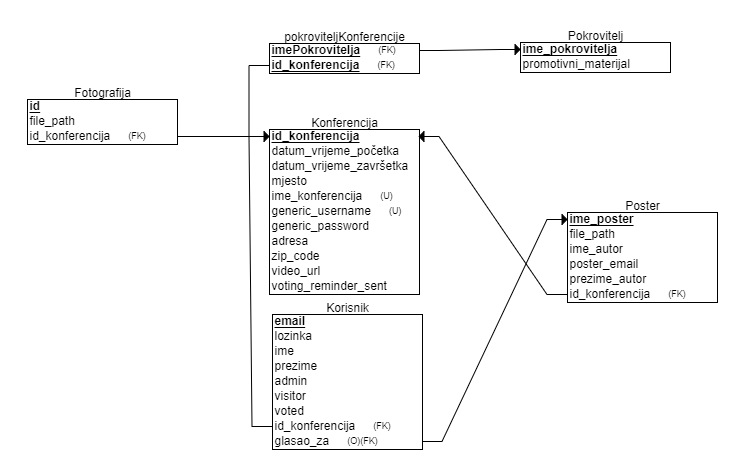
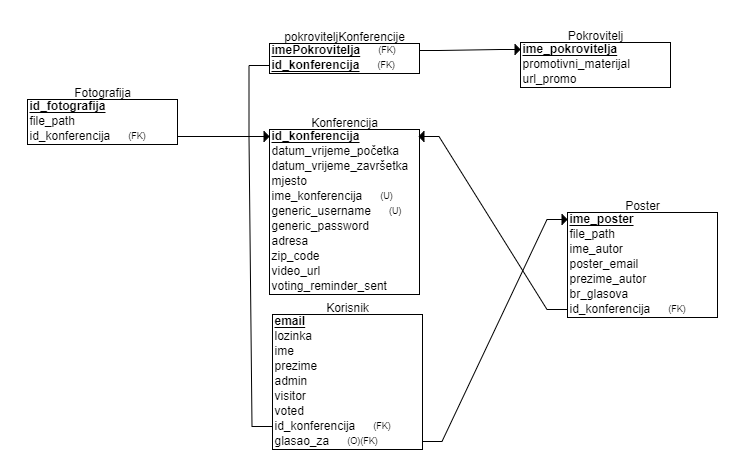
Usklađivanje opisa baze podataka sa stvarnom implementacijom
Generiran je SQL

diff --git a/Dokumentacija/Arhitektura.tex b/Dokumentacija/Arhitektura.tex
@@ -100,7 +100,7 @@ Dijelovi MVC obrazca su:
 	
 	\clearpage
 	
-	\noindent \textbf{Poster } Ovaj entitet sadržava sve važne informacije o radu i/ili izlaganju koje je prikazano odgovarajućim posterom ili prezentacijom. Sadrži atribute: Ime postera, put do datoteke postera, ime i prezime autora, e-mail adresu kojom je autor poslao poster i identifikator konferencije na kojoj se rad izlaže. Ovaj entitet je u vezi \textit{Many-to-One} s entitetom Konferencija preko identifikatora konferencije i u vezi \textit{One-to-Many} s entitetom Korisnik preko identifikatora postera. 
+	\noindent \textbf{Poster } Ovaj entitet sadržava sve važne informacije o radu i/ili izlaganju koje je prikazano odgovarajućim posterom ili prezentacijom. Sadrži atribute: Ime postera, datoteku postera, broj glasova za poster, ime i prezime autora, e-mail adresu kojom je autor poslao poster i identifikator konferencije na kojoj se rad izlaže. Ovaj entitet je u vezi \textit{Many-to-One} s entitetom Konferencija preko identifikatora konferencije i u vezi \textit{One-to-Many} s entitetom Korisnik preko identifikatora postera. 
 	
 	
 	\begin{longtblr}[
@@ -113,7 +113,8 @@ Dijelovi MVC obrazca su:
 		} %definicija širine tablice, širine stupaca, poravnanje i broja redaka naslova tablice
 		\hline \SetCell[c=3]{c}{\textbf{Poster}}	 \\ \hline[3pt]
 		\SetCell{LightGreen}ime\_poster & VARCHAR	&  ime postera služi kao jedinstveni identifikator	\\ \hline
-		file\_path & VARCHAR & put do PDF datoteke postera ili prezentacije  \\ \hline 
+		file\_path & LONGBLOB & PDF datoteka postera ili prezentacije  \\ \hline 
+		br\_glasova & INT & broj glasova za određeni poster \\ \hline 
 		ime\_autor & VARCHAR & ime autora \\ \hline
 		prezime\_autor & VARCHAR & prezime autora \\ \hline
 		poster\_email & VARCHAR & e-mail adresa autora \\ \hline
@@ -122,7 +123,7 @@ Dijelovi MVC obrazca su:
 	
 	\clearpage
 	
-	\noindent \textbf{Pokrovitelj } Ovaj entitet sadržava sve važne informacije o pokrovitelju. Sadrži atribute: Ime pokrovitelja i promotivne materijale. Ovaj entitet je u vezi \textit{Many-to-Many} s entitetom Konferencija.
+	\noindent \textbf{Pokrovitelj } Ovaj entitet sadržava sve važne informacije o pokrovitelju. Sadrži atribute: Ime pokrovitelja, promotivne materijale i poveznicu na stranicu pokrovitelja. Ovaj entitet je u vezi \textit{Many-to-Many} s entitetom Konferencija.
 	
 	
 	\begin{longtblr}[
@@ -135,7 +136,8 @@ Dijelovi MVC obrazca su:
 		} %definicija širine tablice, širine stupaca, poravnanje i broja redaka naslova tablice
 		\hline \SetCell[c=3]{c}{\textbf{Pokrovitelj}}	 \\ \hline[3pt]
 		\SetCell{LightGreen}ime\_ pokrovitelja & VARCHAR & jedinstveni identifikator pokrovitelja  	\\ \hline
-		promotivni\_ materijal & VARCHAR & put do datoteke, promotivni materijal je logotip pokrovitelja   \\ \hline 
+		promotivni\_ materijal & LONGBLOB & datoteka, promotivni materijal je logotip pokrovitelja   \\ \hline 
+		url\_promo & VARCHAR & poveznica na stranicu pokrovitelja \\ \hline 
 	\end{longtblr}
 	
 	\noindent \textbf{Pokrovitelj-Konferencije } Ovaj entitet sadržava sve informacije o odnosu konferencije i pokrovitelja odnosno kojoj konferenciji pokrovitelj pripada.
@@ -169,8 +171,8 @@ Dijelovi MVC obrazca su:
 			rowhead = 1,
 		} %definicija širine tablice, širine stupaca, poravnanje i broja redaka naslova tablice
 		\hline \SetCell[c=3]{c}{\textbf{Fotografije}}	 \\ \hline[3pt]
-		\SetCell{LightGreen}id & INT & jedinstveni brojčani identifikator fotografije   	\\ \hline
-		file\_path	& VARCHAR &  put do fotografije	\\ \hline 
+		\SetCell{LightGreen}id\_fotografija & INT & jedinstveni brojčani identifikator fotografije   	\\ \hline
+		file\_path	& LONGBLOB &  fotografije	\\ \hline 
 		\SetCell{LightBlue} id\_konferencija	& INT & jedinstveni brojčani identifikator konferencije (konferencija.id\_konferencija)  	\\ \hline 
 	\end{longtblr}
 	

diff --git a/Dokumentacija/Dnevnik_promjena_dokumentacije.tex b/Dokumentacija/Dnevnik_promjena_dokumentacije.tex
@@ -49,6 +49,6 @@
 			1.1 & Dodani dijagram stanja i dijagram aktivnosti & {\small V. Javornik} & 20.12.2023. \\ [3pt] \hline
 			1.2 & Dodan dijagram komponenti & {\small V. Javornik} & 24.12.2023. \\ [3pt] \hline
 			1.3 & Navedene korištene tehnologije i alati & {\small V. Javornik} & 01.01.2024. \\ [3pt] \hline
-			1.4 & Usklađivanje opisa tablica Konferencija i Korisnik sa stvarnom implementacijom & {\small V. Javornik} & 05.01.2024. \\ [3pt] \hline
+			1.4 & Usklađivanje opisa svih tablica baze podataka sa stvarnom implementacijom & {\small V. Javornik} & 05.01.2024. \\ [3pt] \hline
 			
 		\end{longtblr}
